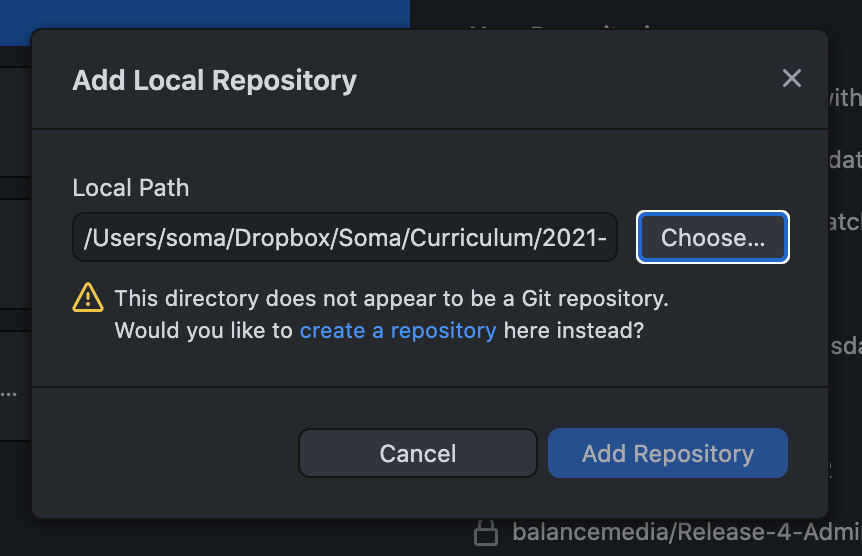
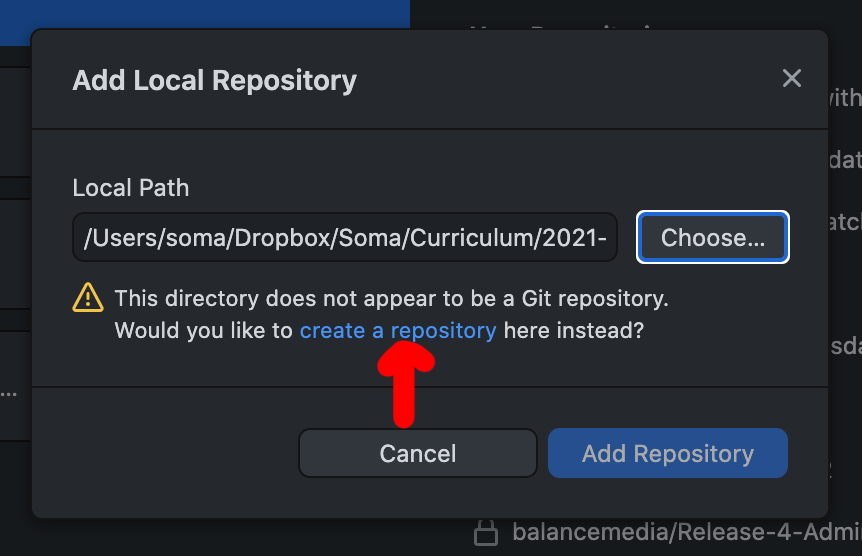
fleshed out the description

Changed region(s): [[0.4223, 0.6115, 0.5128, 0.795]]

diff --git a/README.md b/README.md
@@ -1,1 +1,81 @@
-# How to 
+# How to use git + GitHub Desktop
+
+## What and why
+
+`git` is a command-line tool that allows you to create checkpoints - called **commits** - when you're working on coding projects. It's kind of like how Dropbox or Google Docs saves versions of your old work!
+
+Instead of being focused on individual files, with `git` you create collections of files called **repositories**. You can think of a repository as a folder full of files you're keeping track of.
+
+Become we live in a wild and social time, [GitHub](https://github.com/) is a website where you can store or share your repositories. If your repository is public, other people can read your code and even contribute improvements or bug reports!
+
+For example, I made a project called [Tabletop](https://github.com/jsoma/tabletop) ten thousand years ago. It was awful until [another 27 people](https://github.com/jsoma/tabletop/graphs/contributors) helped make improvements to it!
+
+In data journalism, sharing methodology, code and data is an important part of the process for many news organizations. Sharing `git` repositories on GitHub is an excellent way to do that – for example, [BuzzFeed News](https://github.com/BuzzFeedNews/everything) does a great job keeping their analysis reproducible and available.
+
+## With what
+
+While it's very popular and very useful, `git` is an *awful* command-line tool. [You can read people fighting about it here](https://news.ycombinator.com/item?id=12621837). It's hard to use, nothing makes sense, and it's just... it's just not fun.
+
+So instead we'll use [GitHub Desktop](https://desktop.github.com/). It takes care of `git` on your machine, and will also is in charge of sharing your repositories to GitHub. It isn't as powerful as the command-line tool, but it's far easier to use. [Download it](https://desktop.github.com/).
+
+To be able to share your code on GitHub, you'll also need to create [a GitHub account](https://github.com/).
+
+## How
+
+### STEP ONE: Organizing your files
+
+For one repository (aka one project), put all of the files you want to track in a single location. `git` won't be able to keep track of anything if you spread them across multiple directories. For example, you might have a **squirrel-analysis** directory or a **data-homeworks** folder.
+
+Each directory will be turned into a repository that can be shared online.
+
+![an organized folder](folder.png)
+
+### STEP THREE: Special files
+
+You don't _need_ these files, but they're nice to have.
+
+#### `README.md`
+
+If you want to write a short document explaining what a repository is, use a `README.md`. This description will automatically show up when someone looks at the repo.
+
+The `.md` stands for Markdown, a way of formatting text without using Docs or Word. Read a [quick Markdown reference here](https://commonmark.org/help/). Right now you're reading a `README.md` written using Markdown!
+
+#### `.gitignore`
+
+The `.gitignore` file is files you want `git` to.... ignore! Maybe you want it to ignore the weird `.DS_Store` files OS X puts everywhere, or a test dataset you were looking at.
+
+I usually go to [gitignore.io](https://gitignore.io/) and get one made for VS Code, Python and OS X.
+
+### STEP FOUR: Creating and publishing your repository
+
+After you're all set for ✨✨everyone in the world✨✨✨ to be able to see your content, we're going to create a **repo**, make a **commit**, and **push everything up to github**.
+
+**GitHub Desktop is kind of tricky about how it creates a repository.** *Do not* try to click "Create a New Repository on your Hard Drive" because I guarantee it won't do what you think.
+
+1. Click **Add an Existing Repository to your Hard Drive**.
+2. Click **Create a repository instead**
+3. Write a description. You can add a `.gitignore` if you'd like, too.
+4. Publish your repository
+5. You can choose whether you keep your code private or not
+
+![Add an existing](create-1.png)
+![After selecting a directory, pick create](create-2.png)
+![Write a description](create-3.png)
+![Start to publish to GitHub](create-4.png)
+![Choose whether or not it is private](create-5.png)
+
+### STEP FIVE: Publishing updates
+
+Every time you want to save a checkpoint, you need to make a **commit**.
+
+When files change in your repo, GitHub Desktop will ask you which changes you want to save (probably all of them!), and ask you to write a short description.
+
+Once you write the description, you can **Commit to main**.
+
+> When you're a wild software developer using git, working on different features for a product, you might have multiple versions of your code (aka branches). We're normal people, though, so we'll just always use the **main** branch.
+
+### STEP SIX: Pushing your changes
+
+Now that you've updated your repo locally (aka saved your changes on your own machine), now you can send the changes over to GitHub.
+
+Use the **Push to origin** button on the top right and [share your code with the world!](https://github.com/jsoma/walkthrough-github)
